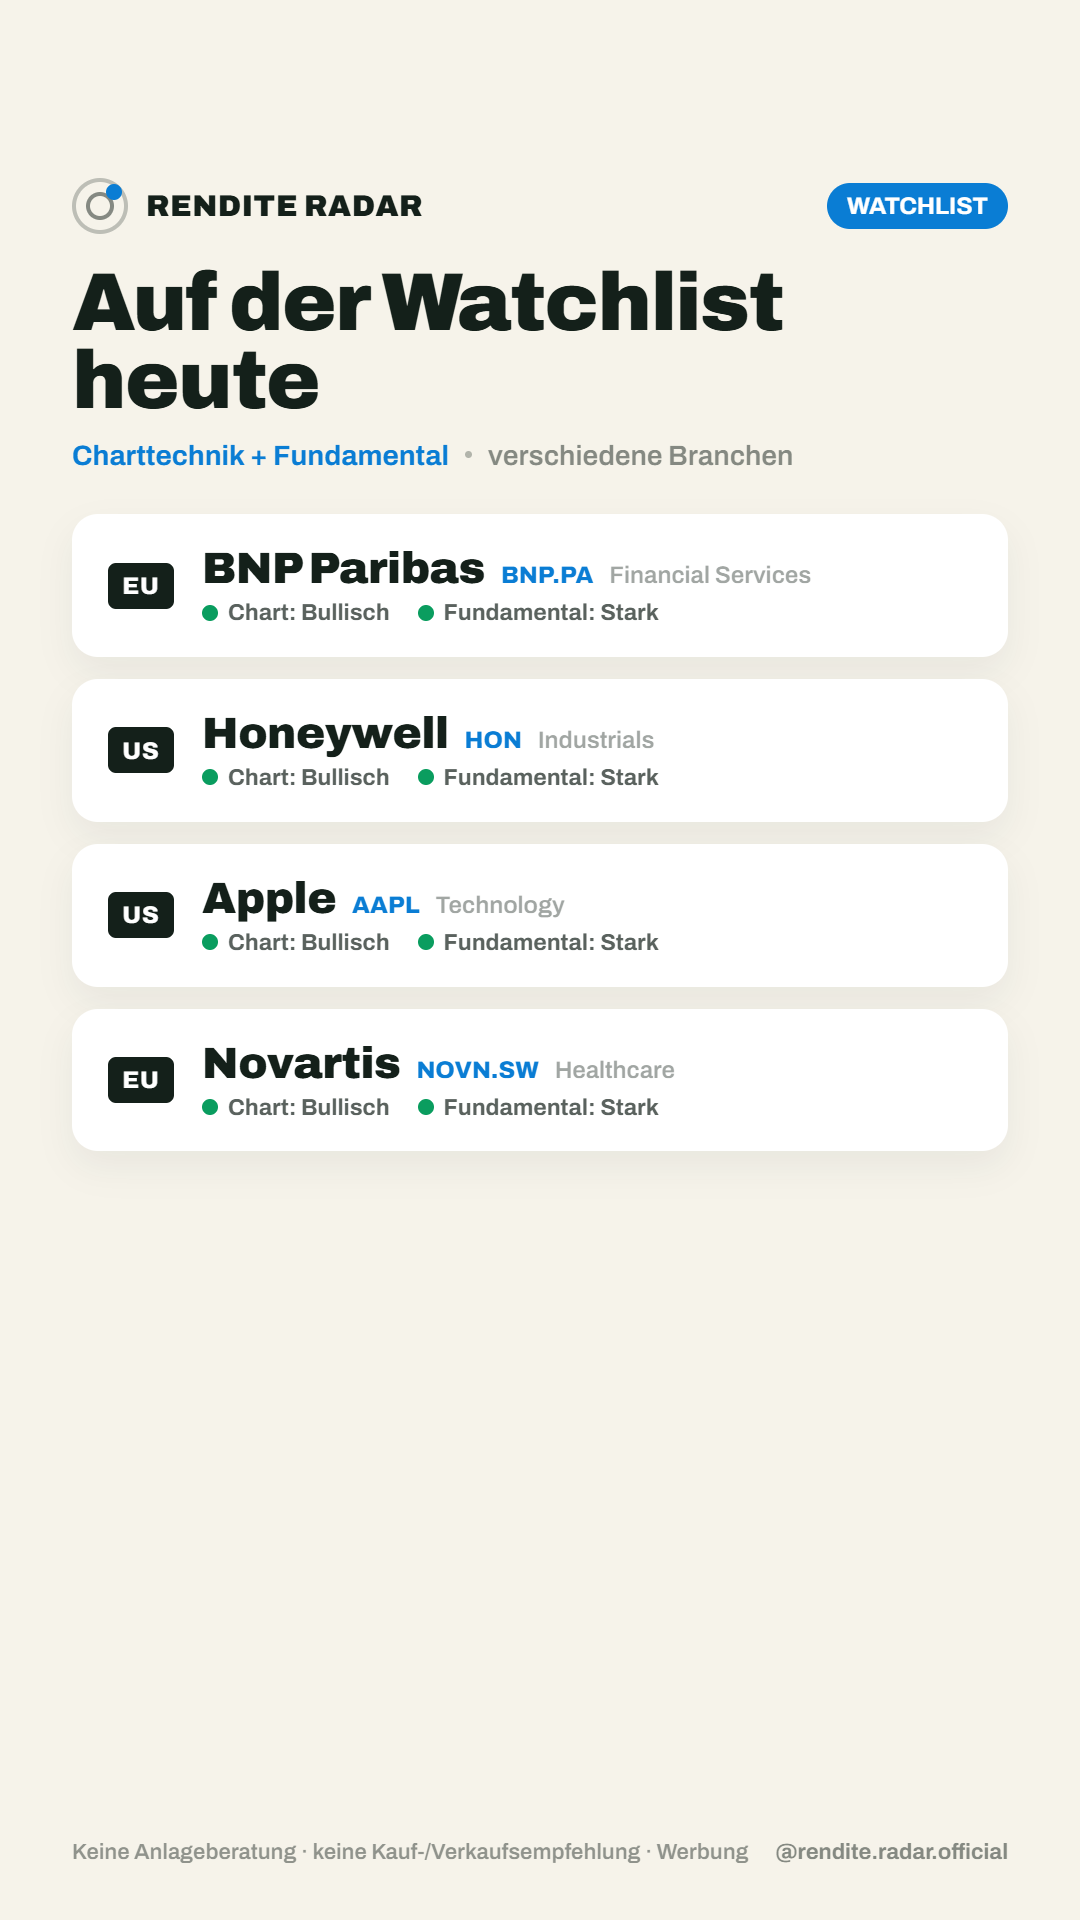
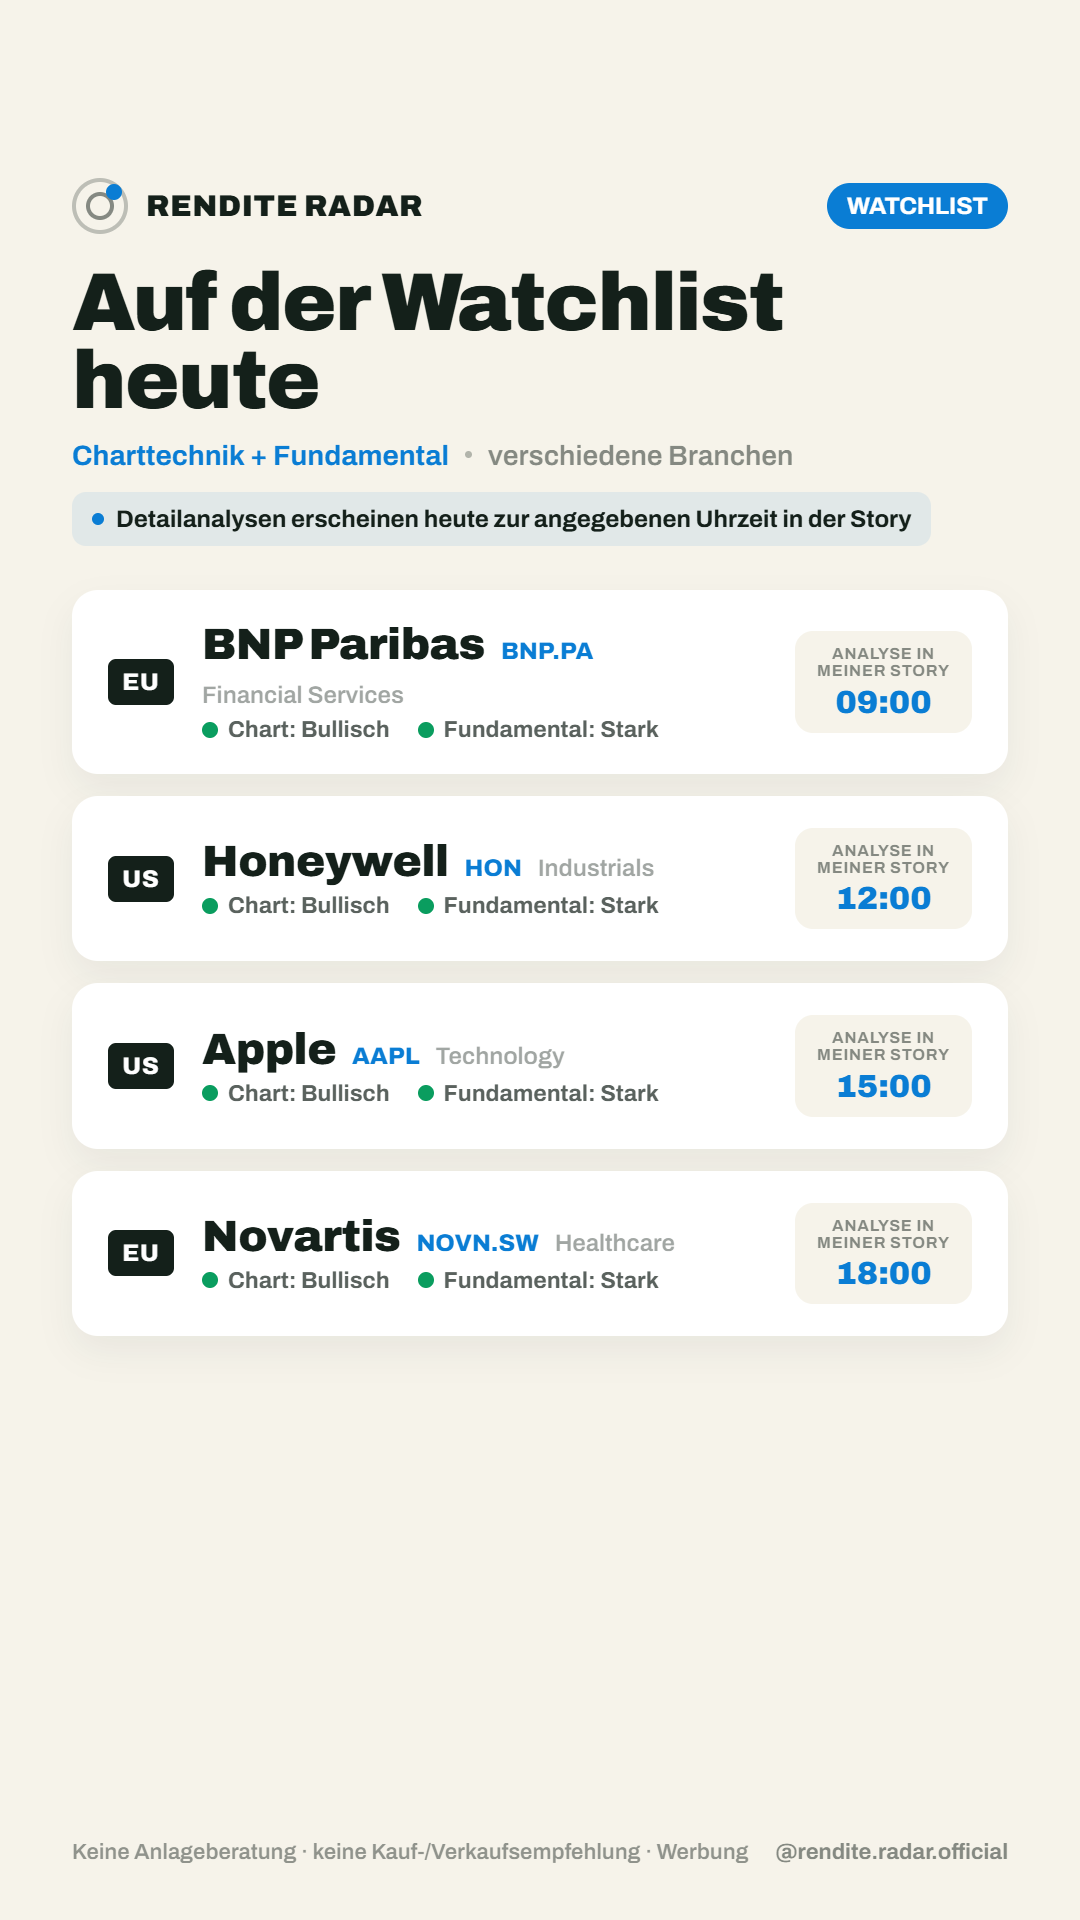
stocks: skip the "Quartalszahlen heute" story when no company reports (weekends/holidays)

Changed region(s): [[0.0611, 0.25, 0.9472, 0.6875]]

diff --git a/src/stocks/pipeline.py b/src/stocks/pipeline.py
@@ -81,13 +81,18 @@ def build_daily_stories(
     out_dir = Path(config.STORY_DIR)
     story_ids: list[int] = []
 
-    # 1) Earnings-of-the-day card
+    # 1) Earnings-of-the-day card — only when companies actually report today. On
+    #    weekends / holidays (and quiet weekdays) the calendar is empty, so we skip the
+    #    "Quartalszahlen heute" story entirely instead of posting an empty one.
     earnings = get_earnings_calendar().todays(config.STOCK_UNIVERSE, config.TIMEZONE)
-    e_path = render_earnings_card(earnings, str(out_dir / f"earnings_{_stamp()}.jpg"), day_label)
-    e_caption = f"📅 Quartalszahlen heute ({day_label})\n\n{_DISCLAIMER}"
-    story_ids.append(_persist("earnings", e_path, e_caption, trade_date,
-                              analysis={"tickers": [e.ticker for e in earnings]}))
-    logger.info(f"Earnings-Story erstellt: {len(earnings)} Termine")
+    if earnings:
+        e_path = render_earnings_card(earnings, str(out_dir / f"earnings_{_stamp()}.jpg"), day_label)
+        e_caption = f"📅 Quartalszahlen heute ({day_label})\n\n{_DISCLAIMER}"
+        story_ids.append(_persist("earnings", e_path, e_caption, trade_date,
+                                  analysis={"tickers": [e.ticker for e in earnings]}))
+        logger.info(f"Earnings-Story erstellt: {len(earnings)} Termine")
+    else:
+        logger.info("Keine Quartalszahlen heute — Earnings-Story übersprungen")
 
     # 2) Watchlist candidates (chart + fundamentals, no sentiment) — respecting the
     #    per-ticker cooldown so recently-analysed stocks are not repeated.